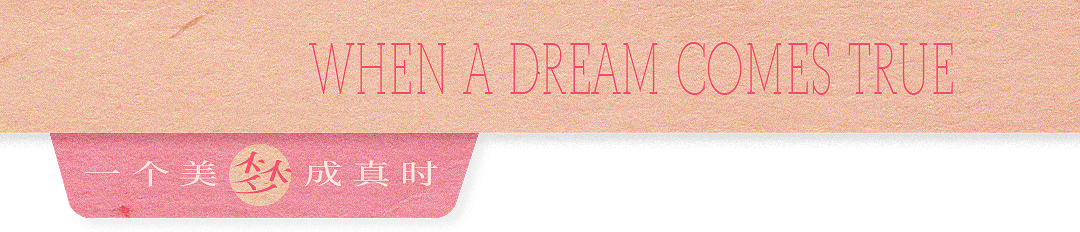
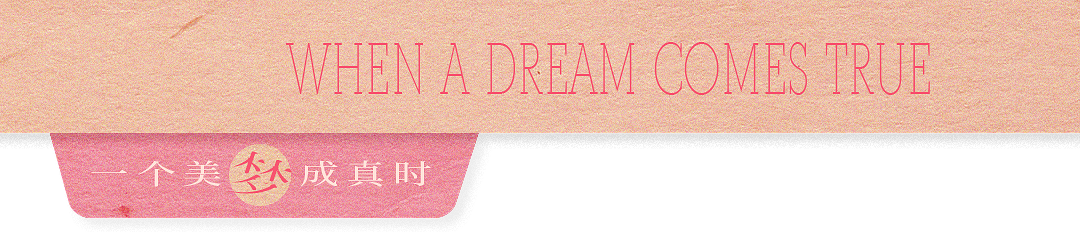
更新

Changed region(s): [[0.2444, 0.181, 0.8861, 0.4224], [0.275, 0.694, 0.4278, 0.8147], [0.0917, 0.694, 0.2139, 0.8147]]

diff --git a/index.html b/index.html
@@ -3,10 +3,10 @@
 <link rel="preconnect" href="https://fonts.googleapis.com">
   <link rel="preconnect" href="https://fonts.gstatic.com" crossorigin>
   <link href="https://fonts.googleapis.com/css2?family=Noto+Sans+SC:wght@300;400;500&family=Noto+Serif+SC:wght@400;600&display=swap" rel="stylesheet"><link rel="stylesheet" href="style.css?v=19"><script defer src="https://static.cloudflareinsights.com/beacon.min.js" data-cf-beacon='{"token":"cc3326733543405881d645b008275c07"}'></script><link rel="prefetch" href="00.html"></head><body class="home-page">
-<header class="site-header site-header-home"><a class="site-home" href="index.html" aria-label="返回作品目录"><img src="assets/site-header.png?v=2" alt="WHEN A DREAM COMES TRUE — 一个美梦成真时"></a><div class="word-count">全篇字数：246,546</div><div class="toolbar"><button class="round" id="settingsButton" aria-label="阅读设置" aria-controls="settingsPanel" aria-expanded="false">◐</button></div></header>
+<header class="site-header site-header-home"><a class="site-home" href="index.html" aria-label="返回作品目录"><img src="assets/site-header.png?v=3" alt="WHEN A DREAM COMES TRUE — 一个美梦成真时"></a><div class="word-count">全篇字数：246,546</div><div class="toolbar"><button class="round" id="settingsButton" aria-label="阅读设置" aria-controls="settingsPanel" aria-expanded="false">◐</button></div></header>
 <aside class="panel" id="settingsPanel" aria-label="阅读设置" inert>
     <div class="panel-head"><span>阅读设置</span><button class="close" data-close>关闭</button></div>
     <div class="group"><span class="label">字体</span><div class="options font-options"><button class="choice active" data-font="serif">思源宋体</button><button class="choice" data-font="sans">思源黑体</button><button class="choice" data-font="light">苹方细体</button><button class="choice" data-font="system">手机系统</button></div></div>
     <div class="group"><span class="label">字号</span><div class="options sizes"><button class="choice" data-size="12">一咪咪</button><button class="choice" data-size="14">特小</button><button class="choice active" data-size="16">小</button><button class="choice" data-size="18">适中</button><button class="choice" data-size="20">大</button><button class="choice" data-size="23">特大</button></div></div>
     <div class="group"><span class="label">底色与文字</span><div class="palettes" id="palettes"></div></div>
-  </aside><main class="home-main"><div class="directory-poster"><img class="poster-rear" src="assets/contents-rear.png" width="1080" height="5400" alt="" aria-hidden="true"><img class="poster-front" src="assets/contents-front.png" width="1080" height="5400" alt="一个美梦成真时章节目录"><a class="dream-glyph" href="00.html" aria-label="进入第00章"><img src="assets/dream-glyph.png" width="79" height="71" alt=""></a><a class="click-cue" href="00.html" aria-label="进入第00章"><img src="assets/click.png" alt=""></a><a class="poster-hit poster-intro directory-start" id="directory-start" style="top:36.852%;left:6%" href="intro-1.html" aria-label="引言1 《英文诗两首（一）》"></a><a class="poster-hit poster-intro" style="top:47.778%;right:5%" href="intro-2.html" aria-label="引言2 《英文诗两首（二）》"></a><a class="poster-hit poster-intro" style="top:55.37%;left:6%" href="intro-3.html" aria-label="引言3 《星期六》"></a><a class="poster-hit poster-intro" style="top:62.963%;right:5%" href="intro-4.html" aria-label="引言4 《布宜诺斯艾利斯》"></a><a class="poster-hit poster-intro" style="top:70.556%;left:6%" href="intro-5.html" aria-label="引言5 《循环的夜》"></a><a class="poster-hit poster-intro" style="top:78.519%;right:5%" href="intro-6.html" aria-label="引言6 《布宜诺斯艾利斯（另一首）》"></a><a class="poster-hit poster-chapter" style="top:41.907407%;left:31.018519%" href="00.html" aria-label="第00章"><span>00</span></a><a class="poster-hit poster-chapter" style="top:42.629630%;left:14.629630%" href="01.html" aria-label="第01章"><span>01</span></a><a class="poster-hit poster-chapter" style="top:43.370370%;left:31.018519%" href="02.html" aria-label="第02章"><span>02</span></a><a class="poster-hit poster-chapter" style="top:44.092593%;left:14.629630%" href="03.html" aria-label="第03章"><span>03</span></a><a class="poster-hit poster-chapter" style="top:44.833333%;left:31.018519%" href="04.html" aria-label="第04章"><span>04</span></a><a class="poster-hit poster-chapter" style="top:45.555556%;left:14.629630%" href="05.html" aria-label="第05章"><span>05</span></a><a class="poster-hit poster-chapter" style="top:46.296296%;left:31.018519%" href="06.html" aria-label="第06章"><span>06</span></a><a class="poster-hit poster-chapter" style="top:51.407407%;left:73.240741%" href="07.html" aria-label="第07章"><span>07</span></a><a class="poster-hit poster-chapter" style="top:52.129630%;left:56.851852%" href="08.html" aria-label="第08章"><span>08</span></a><a class="poster-hit poster-chapter" style="top:52.870370%;left:73.240741%" href="09.html" aria-label="第09章"><span>09</span></a><a class="poster-hit poster-chapter" style="top:53.592593%;left:56.851852%" href="10.html" aria-label="第10章"><span>10</span></a><a class="poster-hit poster-chapter" style="top:54.333333%;left:73.240741%" href="11.html" aria-label="第11章"><span>11</span></a><a class="poster-hit poster-chapter" style="top:60.037037%;left:31.018519%" href="12.html" aria-label="第12章"><span>12</span></a><a class="poster-hit poster-chapter" style="top:60.759259%;left:14.629630%" href="13.html" aria-label="第13章"><span>13</span></a><a class="poster-hit poster-chapter" style="top:61.500000%;left:31.018519%" href="14.html" aria-label="第14章"><span>14</span></a><a class="poster-hit poster-chapter" style="top:62.222222%;left:14.629630%" href="15.html" aria-label="第15章"><span>15</span></a><a class="poster-hit poster-chapter" style="top:62.962963%;left:31.018519%" href="16.html" aria-label="第16章"><span>16</span></a><a class="poster-hit poster-chapter" style="top:68.037037%;left:73.240741%" href="17.html" aria-label="第17章"><span>17</span></a><a class="poster-hit poster-chapter" style="top:68.759259%;left:56.851852%" href="18.html" aria-label="第18章"><span>18</span></a><a class="poster-hit poster-chapter" style="top:69.500000%;left:73.240741%" href="19.html" aria-label="第19章"><span>19</span></a><a class="poster-hit poster-chapter" style="top:70.222222%;left:56.851852%" href="20.html" aria-label="第20章"><span>20</span></a><a class="poster-hit poster-chapter" style="top:75.425926%;left:31.018519%" href="21.html" aria-label="第21章"><span>21</span></a><a class="poster-hit poster-chapter" style="top:76.148148%;left:14.629630%" href="22.html" aria-label="第22章"><span>22</span></a><a class="poster-hit poster-chapter" style="top:76.888889%;left:31.018519%" href="23.html" aria-label="第23章"><span>23</span></a><a class="poster-hit poster-chapter" style="top:77.611111%;left:14.629630%" href="24.html" aria-label="第24章"><span>24</span></a><a class="poster-hit poster-chapter" style="top:78.351852%;left:31.018519%" href="25.html" aria-label="第25章"><span>25</span></a><a class="poster-hit poster-chapter" style="top:83.537037%;left:73.240741%" href="26.html" aria-label="第26章"><span>26</span></a><a class="poster-hit poster-chapter" style="top:84.259259%;left:56.851852%" href="27.html" aria-label="第27章"><span>27</span></a><a class="poster-hit poster-chapter" style="top:85.000000%;left:73.240741%" href="28.html" aria-label="第28章"><span>28</span></a><a class="poster-hit poster-chapter" style="top:85.722222%;left:56.851852%" href="29.html" aria-label="第29章"><span>29</span></a></div></main><script src="reader.js?v=5"></script><script src="home.js?v=1"></script></body></html>
+  </aside><main class="home-main"><div class="directory-poster"><img class="poster-rear" src="assets/contents-rear.png" width="1080" height="5400" alt="" aria-hidden="true"><img class="poster-front" src="assets/contents-front.png" width="1080" height="5400" alt="一个美梦成真时章节目录"><a class="dream-glyph" href="00.html" aria-label="进入第00章"><img src="assets/dream-glyph.png" width="79" height="71" alt=""></a><a class="click-cue" href="00.html" aria-label="进入第00章"><img src="assets/click.png" alt=""></a><a class="poster-hit poster-intro directory-start" id="directory-start" style="top:36.852%;left:6%" href="intro-1.html" aria-label="引言1 《英文诗两首（一）》"></a><a class="poster-hit poster-intro" style="top:47.778%;right:5%" href="intro-2.html" aria-label="引言2 《英文诗两首（二）》"></a><a class="poster-hit poster-intro" style="top:55.37%;left:6%" href="intro-3.html" aria-label="引言3 《星期六》"></a><a class="poster-hit poster-intro" style="top:62.963%;right:5%" href="intro-4.html" aria-label="引言4 《布宜诺斯艾利斯》"></a><a class="poster-hit poster-intro" style="top:70.556%;left:6%" href="intro-5.html" aria-label="引言5 《循环的夜》"></a><a class="poster-hit poster-intro" style="top:78.519%;right:5%" href="intro-6.html" aria-label="引言6 《布宜诺斯艾利斯（另一首）》"></a><a class="poster-hit poster-chapter" style="top:41.907407%;left:31.018519%" href="00.html" aria-label="第00章"><span>00</span></a><a class="poster-hit poster-chapter" style="top:42.629630%;left:14.629630%" href="01.html" aria-label="第01章"><span>01</span></a><a class="poster-hit poster-chapter" style="top:43.370370%;left:31.018519%" href="02.html" aria-label="第02章"><span>02</span></a><a class="poster-hit poster-chapter" style="top:44.092593%;left:14.629630%" href="03.html" aria-label="第03章"><span>03</span></a><a class="poster-hit poster-chapter" style="top:44.833333%;left:31.018519%" href="04.html" aria-label="第04章"><span>04</span></a><a class="poster-hit poster-chapter" style="top:45.555556%;left:14.629630%" href="05.html" aria-label="第05章"><span>05</span></a><a class="poster-hit poster-chapter" style="top:46.296296%;left:31.018519%" href="06.html" aria-label="第06章"><span>06</span></a><a class="poster-hit poster-chapter" style="top:51.407407%;left:73.240741%" href="07.html" aria-label="第07章"><span>07</span></a><a class="poster-hit poster-chapter" style="top:52.129630%;left:56.851852%" href="08.html" aria-label="第08章"><span>08</span></a><a class="poster-hit poster-chapter" style="top:52.870370%;left:73.240741%" href="09.html" aria-label="第09章"><span>09</span></a><a class="poster-hit poster-chapter" style="top:53.592593%;left:56.851852%" href="10.html" aria-label="第10章"><span>10</span></a><a class="poster-hit poster-chapter" style="top:54.333333%;left:73.240741%" href="11.html" aria-label="第11章"><span>11</span></a><a class="poster-hit poster-chapter" style="top:60.037037%;left:31.018519%" href="12.html" aria-label="第12章"><span>12</span></a><a class="poster-hit poster-chapter" style="top:60.759259%;left:14.629630%" href="13.html" aria-label="第13章"><span>13</span></a><a class="poster-hit poster-chapter" style="top:61.500000%;left:31.018519%" href="14.html" aria-label="第14章"><span>14</span></a><a class="poster-hit poster-chapter" style="top:62.222222%;left:14.629630%" href="15.html" aria-label="第15章"><span>15</span></a><a class="poster-hit poster-chapter" style="top:62.962963%;left:31.018519%" href="16.html" aria-label="第16章"><span>16</span></a><a class="poster-hit poster-chapter" style="top:68.037037%;left:73.240741%" href="17.html" aria-label="第17章"><span>17</span></a><a class="poster-hit poster-chapter" style="top:68.759259%;left:56.851852%" href="18.html" aria-label="第18章"><span>18</span></a><a class="poster-hit poster-chapter" style="top:69.500000%;left:73.240741%" href="19.html" aria-label="第19章"><span>19</span></a><a class="poster-hit poster-chapter" style="top:70.222222%;left:56.851852%" href="20.html" aria-label="第20章"><span>20</span></a><a class="poster-hit poster-chapter" style="top:75.425926%;left:31.018519%" href="21.html" aria-label="第21章"><span>21</span></a><a class="poster-hit poster-chapter" style="top:76.148148%;left:14.629630%" href="22.html" aria-label="第22章"><span>22</span></a><a class="poster-hit poster-chapter" style="top:76.888889%;left:31.018519%" href="23.html" aria-label="第23章"><span>23</span></a><a class="poster-hit poster-chapter" style="top:77.611111%;left:14.629630%" href="24.html" aria-label="第24章"><span>24</span></a><a class="poster-hit poster-chapter" style="top:78.351852%;left:31.018519%" href="25.html" aria-label="第25章"><span>25</span></a><a class="poster-hit poster-chapter" style="top:83.537037%;left:73.240741%" href="26.html" aria-label="第26章"><span>26</span></a><a class="poster-hit poster-chapter" style="top:84.259259%;left:56.851852%" href="27.html" aria-label="第27章"><span>27</span></a><a class="poster-hit poster-chapter" style="top:85.000000%;left:73.240741%" href="28.html" aria-label="第28章"><span>28</span></a><a class="poster-hit poster-chapter" style="top:85.722222%;left:56.851852%" href="29.html" aria-label="第29章"><span>29</span></a></div></main><script src="reader.js?v=5"></script><script src="home.js?v=2"></script></body></html>

diff --git a/10.html b/10.html
@@ -3,7 +3,7 @@
 <link rel="preconnect" href="https://fonts.googleapis.com">
   <link rel="preconnect" href="https://fonts.gstatic.com" crossorigin>
   <link href="https://fonts.googleapis.com/css2?family=Noto+Sans+SC:wght@300;400;500&family=Noto+Serif+SC:wght@400;600&display=swap" rel="stylesheet"><link rel="stylesheet" href="style.css?v=19"><script defer src="https://static.cloudflareinsights.com/beacon.min.js" data-cf-beacon='{"token":"cc3326733543405881d645b008275c07"}'></script></head><body>
-<header class="site-header"><a class="site-home" href="index.html" aria-label="返回作品目录"><img src="assets/site-header.png?v=2" alt="WHEN A DREAM COMES TRUE — 一个美梦成真时"></a><div class="word-count">当前字数：10,518</div><div class="toolbar"><button class="round" id="settingsButton" aria-label="阅读设置" aria-controls="settingsPanel" aria-expanded="false">◐</button></div></header>
+<header class="site-header"><a class="site-home" href="index.html" aria-label="返回作品目录"><img src="assets/site-header.png?v=3" alt="WHEN A DREAM COMES TRUE — 一个美梦成真时"></a><div class="word-count">当前字数：10,518</div><div class="toolbar"><button class="round" id="settingsButton" aria-label="阅读设置" aria-controls="settingsPanel" aria-expanded="false">◐</button></div></header>
 <aside class="panel" id="settingsPanel" aria-label="阅读设置" inert>
     <div class="panel-head"><span>阅读设置</span><button class="close" data-close>关闭</button></div>
     <div class="group"><span class="label">字体</span><div class="options font-options"><button class="choice active" data-font="serif">思源宋体</button><button class="choice" data-font="sans">思源黑体</button><button class="choice" data-font="light">苹方细体</button><button class="choice" data-font="system">手机系统</button></div></div>

diff --git a/26.html b/26.html
@@ -3,7 +3,7 @@
 <link rel="preconnect" href="https://fonts.googleapis.com">
   <link rel="preconnect" href="https://fonts.gstatic.com" crossorigin>
   <link href="https://fonts.googleapis.com/css2?family=Noto+Sans+SC:wght@300;400;500&family=Noto+Serif+SC:wght@400;600&display=swap" rel="stylesheet"><link rel="stylesheet" href="style.css?v=19"><script defer src="https://static.cloudflareinsights.com/beacon.min.js" data-cf-beacon='{"token":"cc3326733543405881d645b008275c07"}'></script></head><body>
-<header class="site-header"><a class="site-home" href="index.html" aria-label="返回作品目录"><img src="assets/site-header.png?v=2" alt="WHEN A DREAM COMES TRUE — 一个美梦成真时"></a><div class="word-count">当前字数：13,348</div><div class="toolbar"><button class="round" id="settingsButton" aria-label="阅读设置" aria-controls="settingsPanel" aria-expanded="false">◐</button></div></header>
+<header class="site-header"><a class="site-home" href="index.html" aria-label="返回作品目录"><img src="assets/site-header.png?v=3" alt="WHEN A DREAM COMES TRUE — 一个美梦成真时"></a><div class="word-count">当前字数：13,348</div><div class="toolbar"><button class="round" id="settingsButton" aria-label="阅读设置" aria-controls="settingsPanel" aria-expanded="false">◐</button></div></header>
 <aside class="panel" id="settingsPanel" aria-label="阅读设置" inert>
     <div class="panel-head"><span>阅读设置</span><button class="close" data-close>关闭</button></div>
     <div class="group"><span class="label">字体</span><div class="options font-options"><button class="choice active" data-font="serif">思源宋体</button><button class="choice" data-font="sans">思源黑体</button><button class="choice" data-font="light">苹方细体</button><button class="choice" data-font="system">手机系统</button></div></div>

diff --git a/28.html b/28.html
@@ -3,7 +3,7 @@
 <link rel="preconnect" href="https://fonts.googleapis.com">
   <link rel="preconnect" href="https://fonts.gstatic.com" crossorigin>
   <link href="https://fonts.googleapis.com/css2?family=Noto+Sans+SC:wght@300;400;500&family=Noto+Serif+SC:wght@400;600&display=swap" rel="stylesheet"><link rel="stylesheet" href="style.css?v=19"><script defer src="https://static.cloudflareinsights.com/beacon.min.js" data-cf-beacon='{"token":"cc3326733543405881d645b008275c07"}'></script></head><body>
-<header class="site-header"><a class="site-home" href="index.html" aria-label="返回作品目录"><img src="assets/site-header.png?v=2" alt="WHEN A DREAM COMES TRUE — 一个美梦成真时"></a><div class="word-count">当前字数：10,814</div><div class="toolbar"><button class="round" id="settingsButton" aria-label="阅读设置" aria-controls="settingsPanel" aria-expanded="false">◐</button></div></header>
+<header class="site-header"><a class="site-home" href="index.html" aria-label="返回作品目录"><img src="assets/site-header.png?v=3" alt="WHEN A DREAM COMES TRUE — 一个美梦成真时"></a><div class="word-count">当前字数：10,814</div><div class="toolbar"><button class="round" id="settingsButton" aria-label="阅读设置" aria-controls="settingsPanel" aria-expanded="false">◐</button></div></header>
 <aside class="panel" id="settingsPanel" aria-label="阅读设置" inert>
     <div class="panel-head"><span>阅读设置</span><button class="close" data-close>关闭</button></div>
     <div class="group"><span class="label">字体</span><div class="options font-options"><button class="choice active" data-font="serif">思源宋体</button><button class="choice" data-font="sans">思源黑体</button><button class="choice" data-font="light">苹方细体</button><button class="choice" data-font="system">手机系统</button></div></div>

diff --git a/29.html b/29.html
@@ -3,7 +3,7 @@
 <link rel="preconnect" href="https://fonts.googleapis.com">
   <link rel="preconnect" href="https://fonts.gstatic.com" crossorigin>
   <link href="https://fonts.googleapis.com/css2?family=Noto+Sans+SC:wght@300;400;500&family=Noto+Serif+SC:wght@400;600&display=swap" rel="stylesheet"><link rel="stylesheet" href="style.css?v=19"><script defer src="https://static.cloudflareinsights.com/beacon.min.js" data-cf-beacon='{"token":"cc3326733543405881d645b008275c07"}'></script></head><body>
-<header class="site-header"><a class="site-home" href="index.html" aria-label="返回作品目录"><img src="assets/site-header.png?v=2" alt="WHEN A DREAM COMES TRUE — 一个美梦成真时"></a><div class="word-count">当前字数：14,935</div><div class="toolbar"><button class="round" id="settingsButton" aria-label="阅读设置" aria-controls="settingsPanel" aria-expanded="false">◐</button></div></header>
+<header class="site-header"><a class="site-home" href="index.html" aria-label="返回作品目录"><img src="assets/site-header.png?v=3" alt="WHEN A DREAM COMES TRUE — 一个美梦成真时"></a><div class="word-count">当前字数：14,935</div><div class="toolbar"><button class="round" id="settingsButton" aria-label="阅读设置" aria-controls="settingsPanel" aria-expanded="false">◐</button></div></header>
 <aside class="panel" id="settingsPanel" aria-label="阅读设置" inert>
     <div class="panel-head"><span>阅读设置</span><button class="close" data-close>关闭</button></div>
     <div class="group"><span class="label">字体</span><div class="options font-options"><button class="choice active" data-font="serif">思源宋体</button><button class="choice" data-font="sans">思源黑体</button><button class="choice" data-font="light">苹方细体</button><button class="choice" data-font="system">手机系统</button></div></div>

diff --git a/00.html b/00.html
@@ -4,7 +4,7 @@
 <link rel="preconnect" href="https://fonts.googleapis.com">
   <link rel="preconnect" href="https://fonts.gstatic.com" crossorigin>
   <link href="https://fonts.googleapis.com/css2?family=Noto+Sans+SC:wght@300;400;500&family=Noto+Serif+SC:wght@400;600&display=swap" rel="stylesheet"><link rel="stylesheet" href="style.css?v=19"><script defer src="https://static.cloudflareinsights.com/beacon.min.js" data-cf-beacon='{"token":"cc3326733543405881d645b008275c07"}'></script></head><body>
-<header class="site-header"><a class="site-home" href="index.html" aria-label="返回作品目录"><img src="assets/site-header.png?v=2" alt="WHEN A DREAM COMES TRUE — 一个美梦成真时"></a><div class="word-count">当前字数：1,382</div><div class="toolbar"><button class="round" id="settingsButton" aria-label="阅读设置" aria-controls="settingsPanel" aria-expanded="false">◐</button></div></header>
+<header class="site-header"><a class="site-home" href="index.html" aria-label="返回作品目录"><img src="assets/site-header.png?v=3" alt="WHEN A DREAM COMES TRUE — 一个美梦成真时"></a><div class="word-count">当前字数：1,382</div><div class="toolbar"><button class="round" id="settingsButton" aria-label="阅读设置" aria-controls="settingsPanel" aria-expanded="false">◐</button></div></header>
 <aside class="panel" id="settingsPanel" aria-label="阅读设置" inert>
     <div class="panel-head"><span>阅读设置</span><button class="close" data-close>关闭</button></div>
     <div class="group"><span class="label">字体</span><div class="options font-options"><button class="choice active" data-font="serif">思源宋体</button><button class="choice" data-font="sans">思源黑体</button><button class="choice" data-font="light">苹方细体</button><button class="choice" data-font="system">手机系统</button></div></div>

diff --git a/01.html b/01.html
@@ -3,7 +3,7 @@
 <link rel="preconnect" href="https://fonts.googleapis.com">
   <link rel="preconnect" href="https://fonts.gstatic.com" crossorigin>
   <link href="https://fonts.googleapis.com/css2?family=Noto+Sans+SC:wght@300;400;500&family=Noto+Serif+SC:wght@400;600&display=swap" rel="stylesheet"><link rel="stylesheet" href="style.css?v=19"><script defer src="https://static.cloudflareinsights.com/beacon.min.js" data-cf-beacon='{"token":"cc3326733543405881d645b008275c07"}'></script></head><body>
-<header class="site-header"><a class="site-home" href="index.html" aria-label="返回作品目录"><img src="assets/site-header.png?v=2" alt="WHEN A DREAM COMES TRUE — 一个美梦成真时"></a><div class="word-count">当前字数：5,233</div><div class="toolbar"><button class="round" id="settingsButton" aria-label="阅读设置" aria-controls="settingsPanel" aria-expanded="false">◐</button></div></header>
+<header class="site-header"><a class="site-home" href="index.html" aria-label="返回作品目录"><img src="assets/site-header.png?v=3" alt="WHEN A DREAM COMES TRUE — 一个美梦成真时"></a><div class="word-count">当前字数：5,233</div><div class="toolbar"><button class="round" id="settingsButton" aria-label="阅读设置" aria-controls="settingsPanel" aria-expanded="false">◐</button></div></header>
 <aside class="panel" id="settingsPanel" aria-label="阅读设置" inert>
     <div class="panel-head"><span>阅读设置</span><button class="close" data-close>关闭</button></div>
     <div class="group"><span class="label">字体</span><div class="options font-options"><button class="choice active" data-font="serif">思源宋体</button><button class="choice" data-font="sans">思源黑体</button><button class="choice" data-font="light">苹方细体</button><button class="choice" data-font="system">手机系统</button></div></div>

diff --git a/02.html b/02.html
@@ -3,7 +3,7 @@
 <link rel="preconnect" href="https://fonts.googleapis.com">
   <link rel="preconnect" href="https://fonts.gstatic.com" crossorigin>
   <link href="https://fonts.googleapis.com/css2?family=Noto+Sans+SC:wght@300;400;500&family=Noto+Serif+SC:wght@400;600&display=swap" rel="stylesheet"><link rel="stylesheet" href="style.css?v=19"><script defer src="https://static.cloudflareinsights.com/beacon.min.js" data-cf-beacon='{"token":"cc3326733543405881d645b008275c07"}'></script></head><body>
-<header class="site-header"><a class="site-home" href="index.html" aria-label="返回作品目录"><img src="assets/site-header.png?v=2" alt="WHEN A DREAM COMES TRUE — 一个美梦成真时"></a><div class="word-count">当前字数：7,199</div><div class="toolbar"><button class="round" id="settingsButton" aria-label="阅读设置" aria-controls="settingsPanel" aria-expanded="false">◐</button></div></header>
+<header class="site-header"><a class="site-home" href="index.html" aria-label="返回作品目录"><img src="assets/site-header.png?v=3" alt="WHEN A DREAM COMES TRUE — 一个美梦成真时"></a><div class="word-count">当前字数：7,199</div><div class="toolbar"><button class="round" id="settingsButton" aria-label="阅读设置" aria-controls="settingsPanel" aria-expanded="false">◐</button></div></header>
 <aside class="panel" id="settingsPanel" aria-label="阅读设置" inert>
     <div class="panel-head"><span>阅读设置</span><button class="close" data-close>关闭</button></div>
     <div class="group"><span class="label">字体</span><div class="options font-options"><button class="choice active" data-font="serif">思源宋体</button><button class="choice" data-font="sans">思源黑体</button><button class="choice" data-font="light">苹方细体</button><button class="choice" data-font="system">手机系统</button></div></div>

diff --git a/03.html b/03.html
@@ -3,7 +3,7 @@
 <link rel="preconnect" href="https://fonts.googleapis.com">
   <link rel="preconnect" href="https://fonts.gstatic.com" crossorigin>
   <link href="https://fonts.googleapis.com/css2?family=Noto+Sans+SC:wght@300;400;500&family=Noto+Serif+SC:wght@400;600&display=swap" rel="stylesheet"><link rel="stylesheet" href="style.css?v=19"><script defer src="https://static.cloudflareinsights.com/beacon.min.js" data-cf-beacon='{"token":"cc3326733543405881d645b008275c07"}'></script></head><body>
-<header class="site-header"><a class="site-home" href="index.html" aria-label="返回作品目录"><img src="assets/site-header.png?v=2" alt="WHEN A DREAM COMES TRUE — 一个美梦成真时"></a><div class="word-count">当前字数：6,124</div><div class="toolbar"><button class="round" id="settingsButton" aria-label="阅读设置" aria-controls="settingsPanel" aria-expanded="false">◐</button></div></header>
+<header class="site-header"><a class="site-home" href="index.html" aria-label="返回作品目录"><img src="assets/site-header.png?v=3" alt="WHEN A DREAM COMES TRUE — 一个美梦成真时"></a><div class="word-count">当前字数：6,124</div><div class="toolbar"><button class="round" id="settingsButton" aria-label="阅读设置" aria-controls="settingsPanel" aria-expanded="false">◐</button></div></header>
 <aside class="panel" id="settingsPanel" aria-label="阅读设置" inert>
     <div class="panel-head"><span>阅读设置</span><button class="close" data-close>关闭</button></div>
     <div class="group"><span class="label">字体</span><div class="options font-options"><button class="choice active" data-font="serif">思源宋体</button><button class="choice" data-font="sans">思源黑体</button><button class="choice" data-font="light">苹方细体</button><button class="choice" data-font="system">手机系统</button></div></div>

diff --git a/04.html b/04.html
@@ -3,7 +3,7 @@
 <link rel="preconnect" href="https://fonts.googleapis.com">
   <link rel="preconnect" href="https://fonts.gstatic.com" crossorigin>
   <link href="https://fonts.googleapis.com/css2?family=Noto+Sans+SC:wght@300;400;500&family=Noto+Serif+SC:wght@400;600&display=swap" rel="stylesheet"><link rel="stylesheet" href="style.css?v=19"><script defer src="https://static.cloudflareinsights.com/beacon.min.js" data-cf-beacon='{"token":"cc3326733543405881d645b008275c07"}'></script></head><body>
-<header class="site-header"><a class="site-home" href="index.html" aria-label="返回作品目录"><img src="assets/site-header.png?v=2" alt="WHEN A DREAM COMES TRUE — 一个美梦成真时"></a><div class="word-count">当前字数：5,620</div><div class="toolbar"><button class="round" id="settingsButton" aria-label="阅读设置" aria-controls="settingsPanel" aria-expanded="false">◐</button></div></header>
+<header class="site-header"><a class="site-home" href="index.html" aria-label="返回作品目录"><img src="assets/site-header.png?v=3" alt="WHEN A DREAM COMES TRUE — 一个美梦成真时"></a><div class="word-count">当前字数：5,620</div><div class="toolbar"><button class="round" id="settingsButton" aria-label="阅读设置" aria-controls="settingsPanel" aria-expanded="false">◐</button></div></header>
 <aside class="panel" id="settingsPanel" aria-label="阅读设置" inert>
     <div class="panel-head"><span>阅读设置</span><button class="close" data-close>关闭</button></div>
     <div class="group"><span class="label">字体</span><div class="options font-options"><button class="choice active" data-font="serif">思源宋体</button><button class="choice" data-font="sans">思源黑体</button><button class="choice" data-font="light">苹方细体</button><button class="choice" data-font="system">手机系统</button></div></div>

diff --git a/05.html b/05.html
@@ -3,7 +3,7 @@
 <link rel="preconnect" href="https://fonts.googleapis.com">
   <link rel="preconnect" href="https://fonts.gstatic.com" crossorigin>
   <link href="https://fonts.googleapis.com/css2?family=Noto+Sans+SC:wght@300;400;500&family=Noto+Serif+SC:wght@400;600&display=swap" rel="stylesheet"><link rel="stylesheet" href="style.css?v=19"><script defer src="https://static.cloudflareinsights.com/beacon.min.js" data-cf-beacon='{"token":"cc3326733543405881d645b008275c07"}'></script></head><body>
-<header class="site-header"><a class="site-home" href="index.html" aria-label="返回作品目录"><img src="assets/site-header.png?v=2" alt="WHEN A DREAM COMES TRUE — 一个美梦成真时"></a><div class="word-count">当前字数：5,782</div><div class="toolbar"><button class="round" id="settingsButton" aria-label="阅读设置" aria-controls="settingsPanel" aria-expanded="false">◐</button></div></header>
+<header class="site-header"><a class="site-home" href="index.html" aria-label="返回作品目录"><img src="assets/site-header.png?v=3" alt="WHEN A DREAM COMES TRUE — 一个美梦成真时"></a><div class="word-count">当前字数：5,782</div><div class="toolbar"><button class="round" id="settingsButton" aria-label="阅读设置" aria-controls="settingsPanel" aria-expanded="false">◐</button></div></header>
 <aside class="panel" id="settingsPanel" aria-label="阅读设置" inert>
     <div class="panel-head"><span>阅读设置</span><button class="close" data-close>关闭</button></div>
     <div class="group"><span class="label">字体</span><div class="options font-options"><button class="choice active" data-font="serif">思源宋体</button><button class="choice" data-font="sans">思源黑体</button><button class="choice" data-font="light">苹方细体</button><button class="choice" data-font="system">手机系统</button></div></div>

diff --git a/06.html b/06.html
@@ -3,7 +3,7 @@
 <link rel="preconnect" href="https://fonts.googleapis.com">
   <link rel="preconnect" href="https://fonts.gstatic.com" crossorigin>
   <link href="https://fonts.googleapis.com/css2?family=Noto+Sans+SC:wght@300;400;500&family=Noto+Serif+SC:wght@400;600&display=swap" rel="stylesheet"><link rel="stylesheet" href="style.css?v=19"><script defer src="https://static.cloudflareinsights.com/beacon.min.js" data-cf-beacon='{"token":"cc3326733543405881d645b008275c07"}'></script></head><body>
-<header class="site-header"><a class="site-home" href="index.html" aria-label="返回作品目录"><img src="assets/site-header.png?v=2" alt="WHEN A DREAM COMES TRUE — 一个美梦成真时"></a><div class="word-count">当前字数：8,956</div><div class="toolbar"><button class="round" id="settingsButton" aria-label="阅读设置" aria-controls="settingsPanel" aria-expanded="false">◐</button></div></header>
+<header class="site-header"><a class="site-home" href="index.html" aria-label="返回作品目录"><img src="assets/site-header.png?v=3" alt="WHEN A DREAM COMES TRUE — 一个美梦成真时"></a><div class="word-count">当前字数：8,956</div><div class="toolbar"><button class="round" id="settingsButton" aria-label="阅读设置" aria-controls="settingsPanel" aria-expanded="false">◐</button></div></header>
 <aside class="panel" id="settingsPanel" aria-label="阅读设置" inert>
     <div class="panel-head"><span>阅读设置</span><button class="close" data-close>关闭</button></div>
     <div class="group"><span class="label">字体</span><div class="options font-options"><button class="choice active" data-font="serif">思源宋体</button><button class="choice" data-font="sans">思源黑体</button><button class="choice" data-font="light">苹方细体</button><button class="choice" data-font="system">手机系统</button></div></div>
